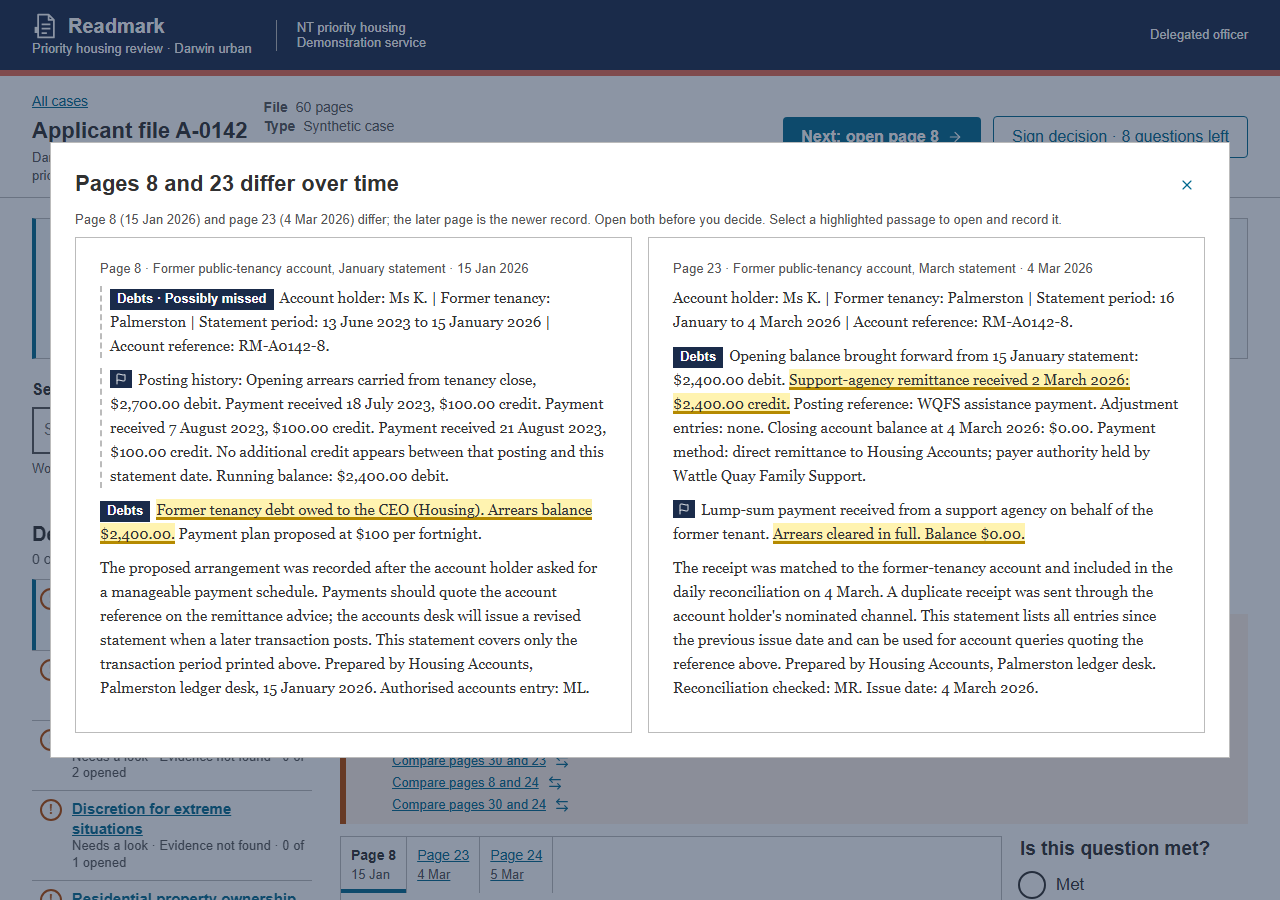
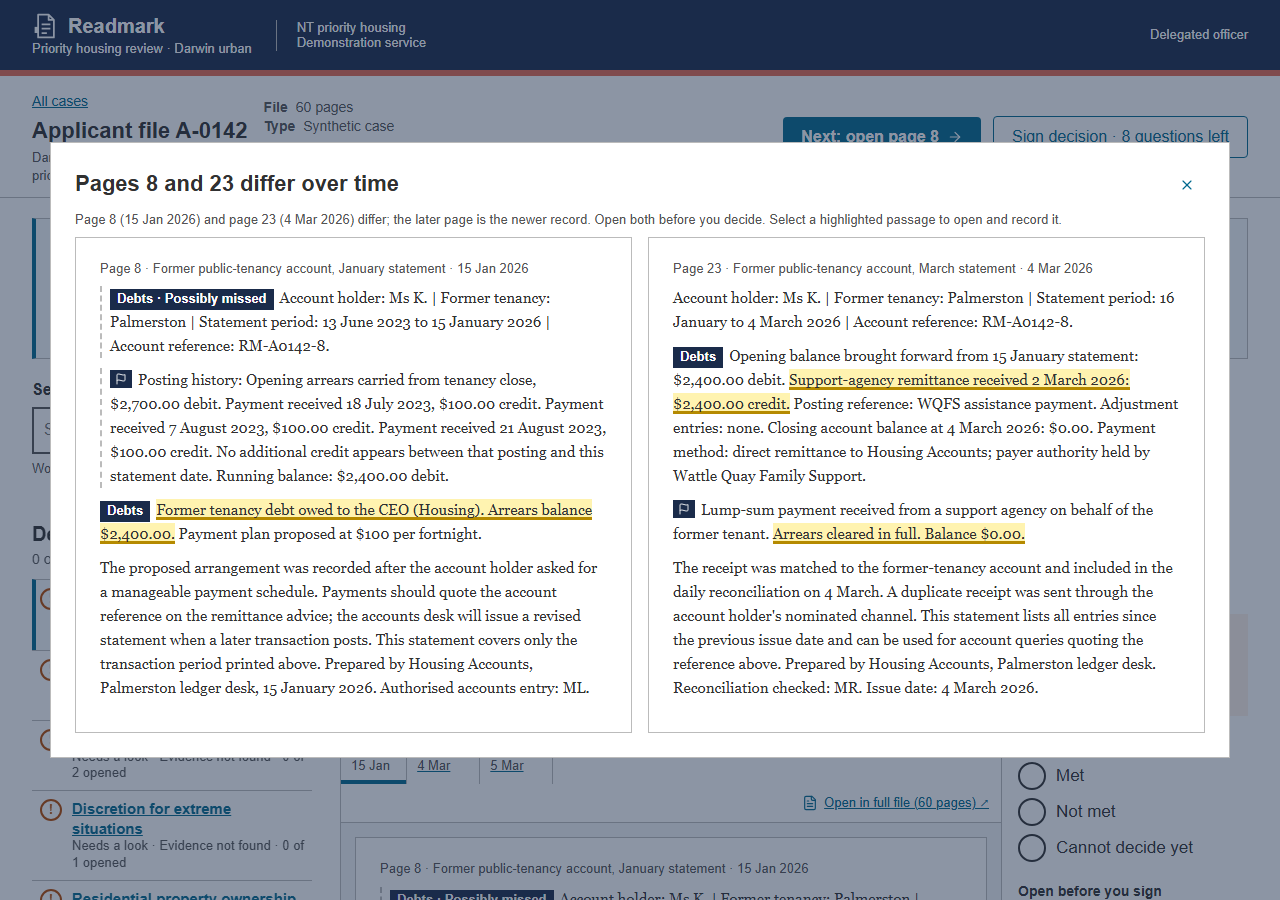
One record over time: one sentence and one comparison

Changed region(s): [[0.25, 0.84, 0.9375, 1.0]]

diff --git a/web/app.js b/web/app.js
@@ -194,6 +194,20 @@ function updateWarning(pair) {
     ? `Page ${src(p.a).page}${whenOf(p.a)} and page ${src(p.b).page}${whenOf(p.b)} differ; the later page is the newer record. Open both before you decide.`
     : `Pages ${src(p.a).page} and ${src(p.b).page} record a change over time; open both before you decide.`;
 }
+// One record seen at three or more times: its pages oldest first and which is newest, never a
+// judgement of what changed. Undated pages are listed by page number and no page is called newest.
+function chainWarning(chain) {
+  const pids = [...chain.pids.values()];
+  if (pids.length === 2) return updateWarning(chain.primary);
+  const dated = pids.every((pid) => src(pid).doc_date);
+  pids.sort((x, y) => (dated ? src(x).doc_date.localeCompare(src(y).doc_date) : 0) || src(x).page - src(y).page);
+  const names = pids.map((pid) => `${src(pid).page}${dated ? whenOf(pid) : ''}`);
+  const list = `Pages ${names.slice(0, -1).join(', ')} and ${names.at(-1)}`;
+  const newest = pids.at(-1);
+  return dated && src(newest).doc_date !== src(pids.at(-2)).doc_date
+    ? `${list} record the same matter over time; page ${src(newest).page}${whenOf(newest)} is the newest record. Compare them before you decide.`
+    : `${list} record the same matter over time; compare them before you decide.`;
+}
 
 function questionProblem(cl) {
   if (cl.contradictions.length) return allUpdates(cl) ? 'A later page updates this' : 'Two pages disagree';
@@ -437,8 +451,24 @@ function clauseView(cl) {
     if (!uniquePairs.has(key) || p.relation === 'contradict') uniquePairs.set(key, orderedPair(p));
   });
   const pagePairs = [...uniquePairs.values()];
-  const pairs = pagePairs.length ? `<div class="comparison-links" data-testid="pairs">
-    ${pagePairs.map((p) => `<button class="btn-secondary compare-btn" data-act="compare" data-arg="${esc(p.a)}" data-other="${esc(p.b)}" data-relation="${esc(p.relation)}" data-testid="compare-pages"${S.signed ? ' disabled' : ''}>Compare pages ${src(p.a).page} and ${src(p.b).page}${icon('arrows')}</button>`).join('')}
+  // Updates that share a page are one record changing over time (a closure entry, a January and a
+  // March statement, a receipt): one sentence and one comparison, from its strongest pair, not one
+  // per pair. The order of pagePairs follows the view's, strongest first.
+  const chains = [];
+  pagePairs.filter((p) => p.relation === 'updated').forEach((p) => {
+    const pages = [src(p.a).page, src(p.b).page];
+    const joined = chains.filter((c) => pages.some((n) => c.pids.has(n)));
+    const chain = joined[0] || { primary: p, pids: new Map() };
+    if (!joined.length) chains.push(chain);
+    joined.slice(1).forEach((other) => {
+      other.pids.forEach((pid, n) => chain.pids.set(n, chain.pids.get(n) || pid));
+      chains.splice(chains.indexOf(other), 1);
+    });
+    [p.a, p.b].forEach((pid) => { if (!chain.pids.has(src(pid).page)) chain.pids.set(src(pid).page, pid); });
+  });
+  const shownPairs = pagePairs.filter((p) => p.relation !== 'updated' || chains.some((c) => c.primary === p));
+  const pairs = shownPairs.length ? `<div class="comparison-links" data-testid="pairs">
+    ${shownPairs.map((p) => `<button class="btn-secondary compare-btn" data-act="compare" data-arg="${esc(p.a)}" data-other="${esc(p.b)}" data-relation="${esc(p.relation)}" data-testid="compare-pages"${S.signed ? ' disabled' : ''}>Compare pages ${src(p.a).page} and ${src(p.b).page}${icon('arrows')}</button>`).join('')}
     </div>` : '';
   const o = st.outcome;
   const flag = questionFlag(cl);
@@ -449,8 +479,9 @@ function clauseView(cl) {
   const pageNames = disagreeingPages.map((pid, i) => `${i ? 'page' : 'Page'} ${src(pid).page}${whenOf(pid)}`);
   const pageList = `${pageNames.slice(0, -1).join(', ')} and ${pageNames.at(-1)}`;
   const openAll = `open ${pageNames.length === 2 ? 'both' : 'each page'} before you decide.`;
-  const warning = pagePairs.some((p) => p.relation === 'updated') ? pagePairs.map((p) => p.relation === 'updated'
-      ? updateWarning(p) : `Page ${src(p.a).page}${whenOf(p.a)} and page ${src(p.b).page}${whenOf(p.b)} disagree; open both before you decide.`).map(esc).join('<br>')
+  const warning = chains.length ? [
+    ...pagePairs.filter((p) => p.relation !== 'updated').map((p) => `Page ${src(p.a).page}${whenOf(p.a)} and page ${src(p.b).page}${whenOf(p.b)} disagree; open both before you decide.`),
+    ...chains.map(chainWarning)].map(esc).join('<br>')
     : pagePairs.length ? `${esc(pageList)} disagree; ${openAll}`
     : flag.includes('evidence not found') || flag === 'Evidence not found' ? 'Missing evidence does not mean “not met”; decide whether the file lets you answer this question.'
     : flag === 'Checker disagrees' ? 'The quote is in the file, but the second checker could not confirm the claim; open the passage and judge.'

diff --git a/tests/test_pair_updates.py b/tests/test_pair_updates.py
@@ -182,7 +182,7 @@ def test_a0142_debts_update_screenshots(width, tmp_path):
         page.get_by_test_id("intro-dismiss").click()
         page.locator('[data-testid="clause-row"][data-clause="elig-debts"]').click()
         expect(page.get_by_test_id("question-warning")).to_contain_text("A later page updates this")
-        expect(page.get_by_test_id("question-warning")).to_contain_text("the newer record")
+        expect(page.get_by_test_id("question-warning")).to_contain_text("the newest record")
         assert page.locator('[data-outcome]:checked').count() == 0
         assert not page.evaluate("document.documentElement.scrollWidth > innerWidth")
         page.screenshot(path=str(SHOTS / f"debts-warning-{width}.png"), full_page=True)
@@ -191,3 +191,25 @@ def test_a0142_debts_update_screenshots(width, tmp_path):
         page.screenshot(path=str(SHOTS / f"debts-comparison-{width}.png"))
         browser.close()
     assert errors == []
+
+
+def test_one_record_over_time_is_one_sentence_and_one_comparison(tmp_path):
+    """A-0142 Debts: six updated pairs across pages 30, 8, 23 and 24 describe one account."""
+    from playwright.sync_api import expect, sync_playwright
+
+    from test_screen import A0142_RUN
+
+    with serving("A-0142", A0142_RUN, tmp_path / "records") as base, sync_playwright() as p:
+        browser = p.chromium.launch()
+        page = browser.new_page(viewport={"width": 1280, "height": 900})
+        page.goto(base)
+        page.get_by_test_id("intro-dismiss").click()
+        page.locator('[data-testid="clause-row"][data-clause="elig-debts"]').click()
+        warning = page.get_by_test_id("question-warning")
+        expect(warning.locator("p")).to_have_text(
+            "Pages 30 (12 Jun 2023), 8 (15 Jan 2026), 23 (4 Mar 2026) and 24 (5 Mar 2026) record "
+            "the same matter over time; page 24 (5 Mar 2026) is the newest record. "
+            "Compare them before you decide.")
+        expect(page.get_by_test_id("compare-pages")).to_have_count(1)
+        expect(page.get_by_test_id("compare-pages")).to_have_text("Compare pages 8 and 23")
+        browser.close()
